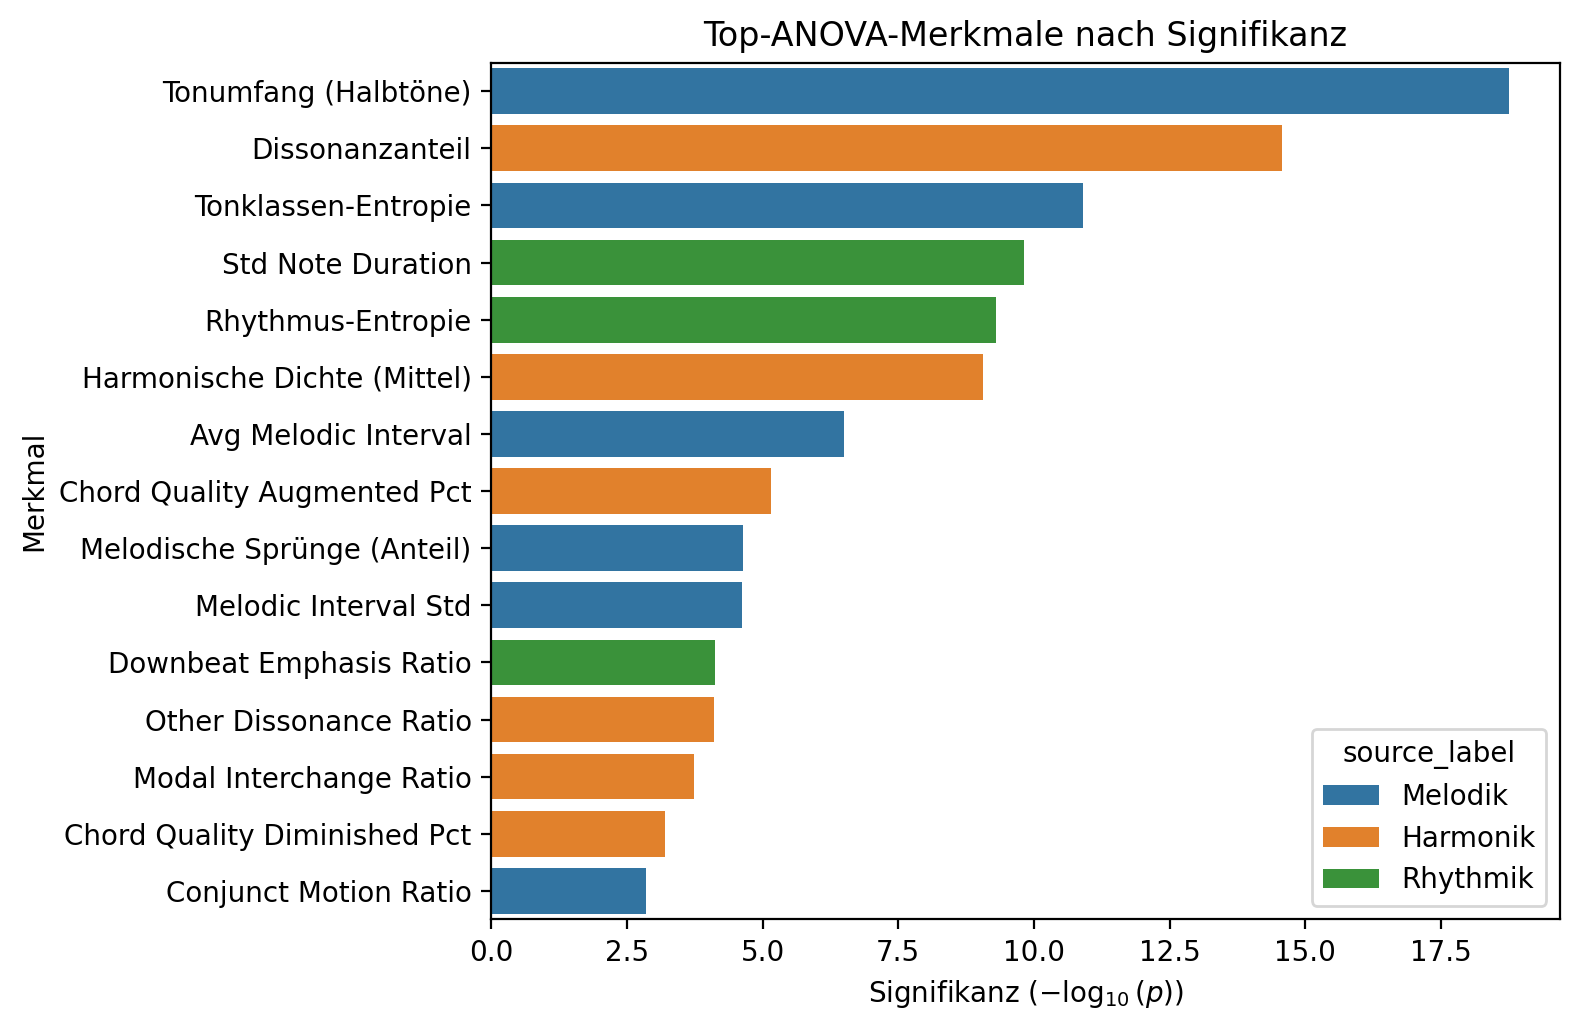
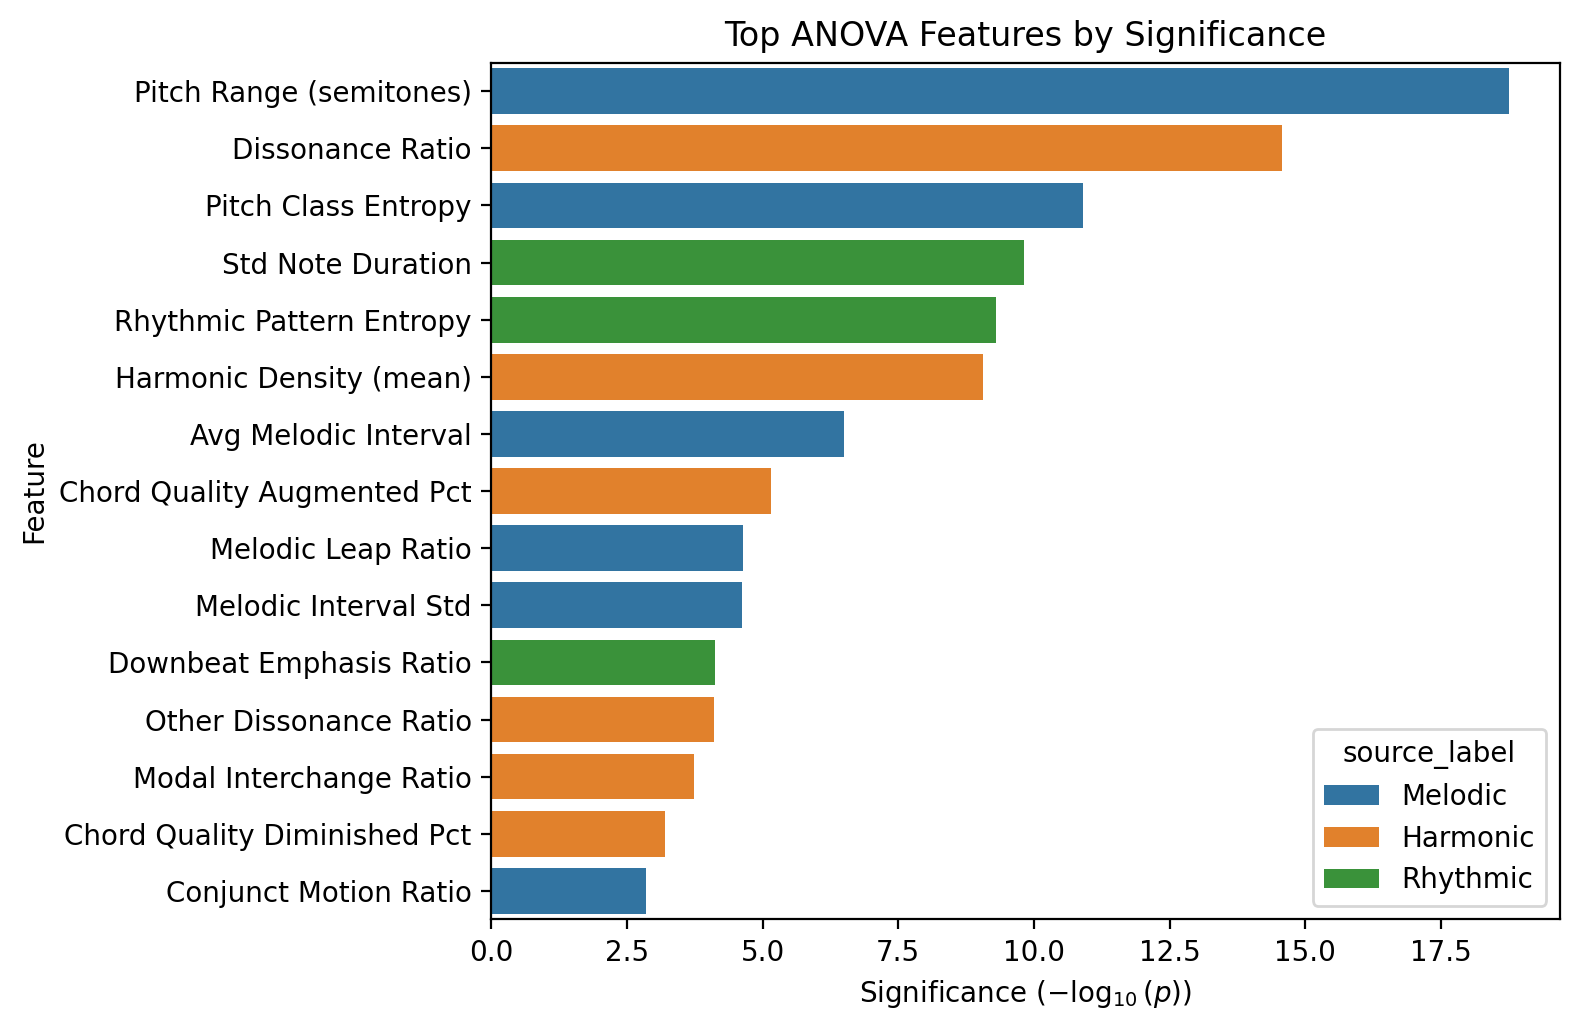
feat: add --lang flag to significance_visualizations.py for de/en plot labels
Add dual-language support (German/English) to the ANOVA bar chart.
Back up original German chart as top_anova_bar_de.png, regenerate
in English for the JNMR manuscript, and update German tex files to
reference the backed-up German version. Document --lang flag in README.

diff --git a/src/significance_visualizations.py b/src/significance_visualizations.py
@@ -1,4 +1,5 @@
 """Generate visual summaries for Phase 2 significance testing outputs."""
+
 from __future__ import annotations
 
 import argparse
@@ -27,7 +28,7 @@ DEFAULT_EXCLUDE = [
 BANDS = ["Bach", "Mozart", "Chopin", "Debussy"]
 
 
-_FEATURE_LABELS: Dict[str, str] = {
+_FEATURE_LABELS_DE: Dict[str, str] = {
     "pitch_range_semitones": "Tonumfang (Halbtöne)",
     "dissonance_ratio": "Dissonanzanteil",
     "chromaticism_ratio": "Chromatikanteil",
@@ -41,26 +42,76 @@ _FEATURE_LABELS: Dict[str, str] = {
     "syncopation_ratio": "Synkopationsanteil",
 }
 
+_FEATURE_LABELS_EN: Dict[str, str] = {
+    "pitch_range_semitones": "Pitch Range (semitones)",
+    "dissonance_ratio": "Dissonance Ratio",
+    "chromaticism_ratio": "Chromaticism Ratio",
+    "non_chord_tone_ratio": "Non-Chord Tone Ratio",
+    "harmonic_density_mean": "Harmonic Density (mean)",
+    "notes_per_beat": "Notes per Beat",
+    "mean_melodic_interval": "Mean Melodic Interval",
+    "melodic_leap_ratio": "Melodic Leap Ratio",
+    "pitch_class_entropy": "Pitch Class Entropy",
+    "rhythmic_pattern_entropy": "Rhythmic Pattern Entropy",
+    "syncopation_ratio": "Syncopation Ratio",
+}
 
-def _humanize_feature_name(name: str) -> str:
+_SOURCE_LABELS_DE: Dict[str, str] = {
+    "harmonic": "Harmonik",
+    "melodic": "Melodik",
+    "rhythmic": "Rhythmik",
+    "significance": "Signifikanz",
+}
+
+_SOURCE_LABELS_EN: Dict[str, str] = {
+    "harmonic": "Harmonic",
+    "melodic": "Melodic",
+    "rhythmic": "Rhythmic",
+    "significance": "Significance",
+}
+
+_PLOT_STRINGS: Dict[str, Dict[str, str]] = {
+    "de": {
+        "anova_xlabel": r"Signifikanz $(-\log_{10}(p))$",
+        "anova_ylabel": "Merkmal",
+        "anova_title": "Top-ANOVA-Merkmale nach Signifikanz",
+    },
+    "en": {
+        "anova_xlabel": r"Significance $(-\log_{10}(p))$",
+        "anova_ylabel": "Feature",
+        "anova_title": "Top ANOVA Features by Significance",
+    },
+}
+
+
+def _get_feature_labels(lang: str) -> Dict[str, str]:
+    return _FEATURE_LABELS_EN if lang == "en" else _FEATURE_LABELS_DE
+
+
+def _get_source_labels(lang: str) -> Dict[str, str]:
+    return _SOURCE_LABELS_EN if lang == "en" else _SOURCE_LABELS_DE
+
+
+def _humanize_feature_name(name: str, lang: str = "de") -> str:
     name = str(name)
-    if name in _FEATURE_LABELS:
-        return _FEATURE_LABELS[name]
+    labels = _get_feature_labels(lang)
+    if name in labels:
+        return labels[name]
 
     # Reasonable fallback for long-tail features:
     # snake_case -> Title Case (keep common abbreviations readable)
     tokens = [token for token in name.replace("_", " ").split() if token]
-    tokens = [token.upper() if token.lower() in {"pc", "pca", "fdr"} else token for token in tokens]
-    return " ".join(token.capitalize() if not token.isupper() else token for token in tokens)
+    tokens = [
+        token.upper() if token.lower() in {"pc", "pca", "fdr"} else token
+        for token in tokens
+    ]
+    return " ".join(
+        token.capitalize() if not token.isupper() else token for token in tokens
+    )
 
 
-def _humanize_source(name: str) -> str:
-    lookup = {
-        "harmonic": "Harmonik",
-        "melodic": "Melodik",
-        "rhythmic": "Rhythmik",
-        "significance": "Signifikanz",
-    }
+def _humanize_source(name: str, lang: str = "de") -> str:
+    lookup = _get_source_labels(lang)
     return lookup.get(str(name).lower(), str(name))
 
 
@@ -105,24 +156,40 @@ def _ordered_pair_labels() -> List[str]:
     return labels
 
 
-def plot_top_anova(anova: pd.DataFrame, figure_dir: Path, top_n: int) -> Path:
+def plot_top_anova(
+    anova: pd.DataFrame, figure_dir: Path, top_n: int, lang: str = "de"
+) -> Path:
     _ensure_columns(anova, ["feature", "source", "p_value"])
     filtered = anova.dropna(subset=["p_value"]).copy()
-    filtered["neg_log_p"] = -np.log10(filtered["p_value"].clip(lower=float(np.finfo(float).tiny)))
+    filtered["neg_log_p"] = -np.log10(
+        filtered["p_value"].clip(lower=float(np.finfo(float).tiny))
+    )
     top = filtered.sort_values("p_value").head(top_n)
     if top.empty:
         raise ValueError("No ANOVA rows available to plot.")
 
     top = top.copy()
-    top["feature_label"] = top["feature"].map(_humanize_feature_name)
-    top["source_label"] = top["source"].map(_humanize_source)
+    top["feature_label"] = top["feature"].map(
+        lambda name: _humanize_feature_name(name, lang=lang)
+    )
+    top["source_label"] = top["source"].map(
+        lambda name: _humanize_source(name, lang=lang)
+    )
 
+    strings = _PLOT_STRINGS.get(lang, _PLOT_STRINGS["de"])
     plt.figure(figsize=(8, max(4, top_n * 0.35)))
     order = top.sort_values("p_value", ascending=True)["feature_label"].tolist()
-    sns.barplot(data=top, y="feature_label", x="neg_log_p", hue="source_label", dodge=False, order=order)
-    plt.xlabel(r"Signifikanz $(-\log_{10}(p))$")
-    plt.ylabel("Merkmal")
-    plt.title("Top-ANOVA-Merkmale nach Signifikanz")
+    sns.barplot(
+        data=top,
+        y="feature_label",
+        x="neg_log_p",
+        hue="source_label",
+        dodge=False,
+        order=order,
+    )
+    plt.xlabel(strings["anova_xlabel"])
+    plt.ylabel(strings["anova_ylabel"])
+    plt.title(strings["anova_title"])
     plt.tight_layout()
     figure_dir.mkdir(parents=True, exist_ok=True)
     output_path = figure_dir / "top_anova_bar.png"
@@ -135,13 +202,17 @@ def aggregate_pair_significance(tukey: pd.DataFrame) -> pd.DataFrame:
     required = ["feature", "group_1", "group_2", "p_adj", "reject", "meandiff"]
     _ensure_columns(tukey, required)
     tukey = tukey.copy()
-    tukey["pair"] = tukey.apply(lambda row: _canonical_pair(str(row["group_1"]), str(row["group_2"])), axis=1)
+    tukey["pair"] = tukey.apply(
+        lambda row: _canonical_pair(str(row["group_1"]), str(row["group_2"])), axis=1
+    )
     tukey["reject"] = tukey["reject"].astype(bool)
 
     subset = tukey[tukey["reject"]]
     if subset.empty:
         return pd.DataFrame()
-    features = subset.groupby(["feature", "pair"])["meandiff"].mean().unstack(fill_value=0)
+    features = (
+        subset.groupby(["feature", "pair"])["meandiff"].mean().unstack(fill_value=0)
+    )
     return features
 
 
@@ -173,7 +244,9 @@ def plot_pair_heatmap(counts: pd.Series, figure_dir: Path) -> Path:
     return output_path
 
 
-def plot_pair_effect_heatmap(effect: pd.Series, figure_dir: Path, name: str, cmap: str, slug: str) -> Path:
+def plot_pair_effect_heatmap(
+    effect: pd.Series, figure_dir: Path, name: str, cmap: str, slug: str
+) -> Path:
     matrix = _pair_matrix(effect)
     plt.figure(figsize=(6, 5))
     sns.heatmap(
@@ -192,7 +265,9 @@ def plot_pair_effect_heatmap(effect: pd.Series, figure_dir: Path, name: str, cma
     return output_path
 
 
-def _apply_exclusions(feature_means: pd.DataFrame, patterns: Sequence[str]) -> pd.DataFrame:
+def _apply_exclusions(
+    feature_means: pd.DataFrame, patterns: Sequence[str]
+) -> pd.DataFrame:
     if not patterns:
         return feature_means
     include_mask = pd.Series(True, index=feature_means.index)
@@ -209,10 +284,14 @@ def plot_feature_pair_matrix(
     symlog: bool = False,
 ) -> Path:
     if feature_means.empty:
-        raise ValueError("No significant Tukey comparisons available for feature heatmap.")
+        raise ValueError(
+            "No significant Tukey comparisons available for feature heatmap."
+        )
     ordered = feature_means.copy()
     available_pairs = ordered.columns.tolist()
-    pair_labels = [label for label in _ordered_pair_labels() if label in available_pairs]
+    pair_labels = [
+        label for label in _ordered_pair_labels() if label in available_pairs
+    ]
     ordered = ordered[pair_labels]
 
     # Select top features based on max absolute mean difference
@@ -275,16 +354,38 @@ def plot_normalized_heatmap(
 
 
 def parse_arguments(argv: Optional[Sequence[str]] = None) -> argparse.Namespace:
-    parser = argparse.ArgumentParser(description="Generate significance testing visualizations.")
-    parser.add_argument("--anova", type=Path, default=DEFAULT_ANOVA, help="Path to ANOVA summary CSV.")
-    parser.add_argument("--tukey", type=Path, default=DEFAULT_TUKEY, help="Path to Tukey HSD CSV.")
-    parser.add_argument("--figure-dir", type=Path, default=DEFAULT_FIGURE_DIR, help="Directory for output figures.")
-    parser.add_argument("--top-n", type=int, default=DEFAULT_TOP_N, help="Number of top features to visualize (default 15).")
+    parser = argparse.ArgumentParser(
+        description="Generate significance testing visualizations."
+    )
+    parser.add_argument(
+        "--anova", type=Path, default=DEFAULT_ANOVA, help="Path to ANOVA summary CSV."
+    )
+    parser.add_argument(
+        "--tukey", type=Path, default=DEFAULT_TUKEY, help="Path to Tukey HSD CSV."
+    )
+    parser.add_argument(
+        "--figure-dir",
+        type=Path,
+        default=DEFAULT_FIGURE_DIR,
+        help="Directory for output figures.",
+    )
+    parser.add_argument(
+        "--top-n",
+        type=int,
+        default=DEFAULT_TOP_N,
+        help="Number of top features to visualize (default 15).",
+    )
     parser.add_argument(
         "--exclude-pattern",
         action="append",
         default=list(DEFAULT_EXCLUDE),
         help="Substring to exclude from feature names in pair heatmaps (can repeat).",
+    )
+    parser.add_argument(
+        "--lang",
+        choices=["de", "en"],
+        default="de",
+        help="Language for plot labels (default: de).",
     )
     parser.add_argument(
         "--no-symlog",
@@ -311,7 +412,9 @@ def main(argv: Optional[Sequence[str]] = None) -> int:
     figure_dir = args.figure_dir
     outputs: Dict[str, Path] = {}
 
-    outputs["top_anova"] = plot_top_anova(anova_df, figure_dir, args.top_n)
+    outputs["top_anova"] = plot_top_anova(
+        anova_df, figure_dir, args.top_n, lang=args.lang
+    )
 
     feature_means = aggregate_pair_significance(tukey_df)
     filtered = _apply_exclusions(feature_means, args.exclude_pattern or [])
@@ -322,8 +425,12 @@ def main(argv: Optional[Sequence[str]] = None) -> int:
         counts_series = counts_series.reindex(_ordered_pair_labels(), fill_value=0)
         outputs["pair_heatmap"] = plot_pair_heatmap(counts_series, figure_dir)
 
-        mean_diff = filtered.mean(axis=0).reindex(_ordered_pair_labels(), fill_value=0.0)
-        mean_abs = filtered.abs().mean(axis=0).reindex(_ordered_pair_labels(), fill_value=0.0)
+        mean_diff = filtered.mean(axis=0).reindex(
+            _ordered_pair_labels(), fill_value=0.0
+        )
+        mean_abs = (
+            filtered.abs().mean(axis=0).reindex(_ordered_pair_labels(), fill_value=0.0)
+        )
         outputs["pair_heatmap_effect"] = plot_pair_effect_heatmap(
             mean_diff, figure_dir, "Mean Difference", "PuOr", "mean_difference"
         )

diff --git a/JuFoArbeit_RegionalRunde.tex b/JuFoArbeit_RegionalRunde.tex
@@ -284,7 +284,7 @@ Alle Skripte verwenden \texttt{argparse} für konfigurierbare Parameter, unterst
 
 \begin{figure}[htbp]
     \centering
-    \includegraphics[width=0.85\textwidth]{figures/significance/top_anova_bar.png}
+    \includegraphics[width=0.85\textwidth]{figures/significance/top_anova_bar_de.png}
     \caption{Die 15 signifikantesten Merkmale nach ANOVA-Tests (dargestellt als $-\log_{10}(p)$). Merkmale aus allen drei Säulen (Harmonik, Melodik, Rhythmik) zeigen hohe statistische Trennschärfe. Die stärksten Unterschiede ergeben sich u.\,a. bei melodischen Merkmalen wie Tonumfang (Halbtöne) und harmonischen Merkmalen wie Dissonanzanteil.}\label{fig:anova}
 \end{figure}
 

diff --git a/JuFoArbeit_RegionalRunde_v2.tex b/JuFoArbeit_RegionalRunde_v2.tex
@@ -337,7 +337,7 @@ Um Analysen auf das vollständige PDMX-Archiv (254\,077 Partituren) zu ermöglic
 
 \begin{figure}[htbp]
     \centering
-    \includegraphics[width=0.85\textwidth]{figures/significance/top_anova_bar.png}
+    \includegraphics[width=0.85\textwidth]{figures/significance/top_anova_bar_de.png}
     \caption{Die 15 signifikantesten Merkmale nach ANOVA-Tests (dargestellt als $-\log_{10}(p)$). Merkmale aus allen drei Säulen (Harmonik, Melodik, Rhythmik) zeigen hohe statistische Trennschärfe. Die stärksten Unterschiede ergeben sich u.\,a. bei melodischen Merkmalen wie Tonumfang (Halbtöne) und harmonischen Merkmalen wie Dissonanzanteil.}\label{fig:anova}
 \end{figure}
 

diff --git a/JuFoArbeit_v3.tex b/JuFoArbeit_v3.tex
@@ -280,7 +280,7 @@ Um Analysen auf das vollständige PDMX-Archiv zu ermöglichen, wurde ein skalier
     \centering
     \begin{minipage}{0.48\textwidth}
         \centering
-        \includegraphics[width=\textwidth]{figures/significance/top_anova_bar.png}
+        \includegraphics[width=\textwidth]{figures/significance/top_anova_bar_de.png}
         \caption{Top 15 ANOVA-Ergebnisse ($-\log_{10}(p)$).}\label{fig:anova}
     \end{minipage}\hfill
     \begin{minipage}{0.48\textwidth}

diff --git a/Paper.tex b/Paper.tex
@@ -92,7 +92,7 @@ Running one-way ANOVA followed by Tukey HSD comparisons across the combined feat
 
 \begin{figure}[h]
     \centering
-    \includegraphics[width=0.85\textwidth]{figures/significance/top_anova_bar.png}
+    \includegraphics[width=0.85\textwidth]{figures/significance/top_anova_bar_de.png}
     \caption{Top ANOVA hits across harmonic, melodic, and rhythmic feature families.}
     \label{fig:anova}
 \end{figure}

diff --git a/README.md b/README.md
@@ -286,7 +286,7 @@ Run omnibus ANOVA and Tukey HSD post-hoc comparisons across every exported featu
 		```bash
 		python3 src/significance_visualizations.py --top-n 15
 		```
-		This writes figures to `figures/significance/`: a top ANOVA bar chart, three pairwise heatmaps (significant-feature counts, signed mean difference, absolute mean difference), plus two feature-level heatmaps (sym-log and normalized). Count-heavy metrics (e.g., `note_event_count`, `roman_chord_count`, `dissonant_note_count`) are filtered automatically; supply additional `--exclude-pattern` flags to customise. Use `--no-symlog`, `--skip-normalized`, or adjusted `--top-n` values to tailor the views.
+		This writes figures to `figures/significance/`: a top ANOVA bar chart, three pairwise heatmaps (significant-feature counts, signed mean difference, absolute mean difference), plus two feature-level heatmaps (sym-log and normalized). Count-heavy metrics (e.g., `note_event_count`, `roman_chord_count`, `dissonant_note_count`) are filtered automatically; supply additional `--exclude-pattern` flags to customise. Use `--no-symlog`, `--skip-normalized`, or adjusted `--top-n` values to tailor the views. Use `--lang en` to generate plots with English labels (default is `de` for German).
 
 </details>
 
